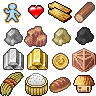
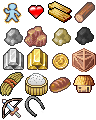
new buildings (without function tho)

diff --git a/src/main/java/de/dakror/arise/layer/CityHUDLayer.java b/src/main/java/de/dakror/arise/layer/CityHUDLayer.java
@@ -7,6 +7,8 @@ import java.awt.image.BufferedImage;
 import java.util.ArrayList;
 
 import de.dakror.arise.game.Game;
+import de.dakror.arise.game.building.Barn;
+import de.dakror.arise.game.building.Barracks;
 import de.dakror.arise.game.building.Building;
 import de.dakror.arise.game.building.Center;
 import de.dakror.arise.game.building.Lumberjack;
@@ -121,6 +123,28 @@ public class CityHUDLayer extends Layer
 				}
 			});
 			components.add(quarry);
+			
+			BuildingButton barracks = new BuildingButton(15 + 144 + 72, Game.getHeight() - 64, 48, 48, Game.getImage("system/icons.png").getSubimage(0, 96, 24, 24), new Barracks(0, 0, 0));
+			barracks.addClickEvent(new ClickEvent()
+			{
+				@Override
+				public void trigger()
+				{
+					cl.activeBuilding = new Barracks(0, 0, 0);
+				}
+			});
+			components.add(barracks);
+			
+			BuildingButton barn = new BuildingButton(15 + 144 + 144, Game.getHeight() - 64, 48, 48, Game.getImage("system/icons.png").getSubimage(24, 96, 24, 24), new Barn(0, 0, 0));
+			barn.addClickEvent(new ClickEvent()
+			{
+				@Override
+				public void trigger()
+				{
+					cl.activeBuilding = new Barn(0, 0, 0);
+				}
+			});
+			components.add(barn);
 			
 			ResourceLabel gold = new ResourceLabel(20, 20, CityLayer.resources, Resource.GOLD);
 			components.add(gold);

diff --git a/src/main/java/de/dakror/arise/ui/BuildingButton.java b/src/main/java/de/dakror/arise/ui/BuildingButton.java
@@ -51,7 +51,7 @@ public class BuildingButton extends IconButton
 		{
 			int width = 250;
 			tooltipRows = Helper.getLineCount(building.getDescription(), width - 40, g, 25);
-			tooltipHeight = tooltipRows * 25 + 75 + resources.size() * 30 + 55 + products.size() * 30;
+			tooltipHeight = tooltipRows * 25 + 75 + resources.size() * 30 + (products.size() > 0 ? 55 + products.size() * 30 : 30);
 			
 			tooltipCache = new BufferedImage(width, tooltipHeight, BufferedImage.TYPE_INT_ARGB);
 			
@@ -64,7 +64,7 @@ public class BuildingButton extends IconButton
 			Helper.drawString(tooltip, 20, 50, g2, 40);
 			Helper.drawStringWrapped(building.getDescription(), 30, 80, width - 40, g2, 25);
 			Helper.drawString("Baukosten", 25, 50 + tooltipRows * 25 + 35, g2, 30);
-			Helper.drawString("Produktion", 25, 80 + tooltipRows * 25 + 35 + resources.size() * 30, g2, 30);
+			if (products.size() > 0) Helper.drawString("Produktion", 25, 80 + tooltipRows * 25 + 35 + resources.size() * 30, g2, 30);
 			for (int i = 0; i < products.size(); i++)
 			{
 				Resource r = products.get(i);

diff --git a/src/main/java/de/dakror/arise/game/building/Barracks.java b/src/main/java/de/dakror/arise/game/building/Barracks.java
@@ -1,0 +1,26 @@
+package de.dakror.arise.game.building;
+
+/**
+ * @author Dakror
+ */
+public class Barracks extends Building
+{
+	public Barracks(int x, int y, int level)
+	{
+		super(x, y, 8, 7, level);
+		
+		typeId = 5;
+		name = "Kaserne";
+		desc = "Hier können Fußsoldaten ausgebildet und verbessert werden.";
+		
+		tx = 6;
+		ty = 9;
+		tw = 8;
+		th = 7;
+		
+		by = 4;
+		bh -= 4;
+		
+		init();
+	}
+}

diff --git a/src/main/java/de/dakror/arise/game/building/Barn.java b/src/main/java/de/dakror/arise/game/building/Barn.java
@@ -1,0 +1,26 @@
+package de.dakror.arise.game.building;
+
+/**
+ * @author Dakror
+ */
+public class Barn extends Building
+{
+	public Barn(int x, int y, int level)
+	{
+		super(x, y, 9, 9, level);
+		
+		typeId = 6;
+		name = "Reiterei";
+		desc = "Hier können Berittene ausgebildet und verbessert werden.";
+		
+		tx = 5;
+		ty = 0;
+		tw = 9;
+		th = 9;
+		
+		by = 3;
+		bh -= 3;
+		
+		init();
+	}
+}

diff --git a/src/main/java/de/dakror/arise/game/building/Quarry.java b/src/main/java/de/dakror/arise/game/building/Quarry.java
@@ -11,10 +11,10 @@ public class Quarry extends Building
 		
 		typeId = 4;
 		name = "Steinbruch";
-		desc = "Baut Stein ab, um ihn als Baumaterial zu benutzen.";
+		desc = "Baut Stein ab, welcher als Baumaterial benutzt werden kann.";
 		
-		tx = 7;
-		ty = 21;
+		tx = 5;
+		ty = 23;
 		tw = 5;
 		th = 6;
 		

diff --git a/src/main/java/de/dakror/arise/game/building/Building.java b/src/main/java/de/dakror/arise/game/building/Building.java
@@ -267,10 +267,12 @@ public abstract class Building extends ClickableComponent
 				return new Mine(x, y, level);
 			case 4:
 				return new Quarry(x, y, level);
+			case 5:
+				return new Barracks(x, y, level);
+			case 6:
+				return new Barn(x, y, level);
 			default:
 				return null;
 		}
 	}
-	
-	
 }
